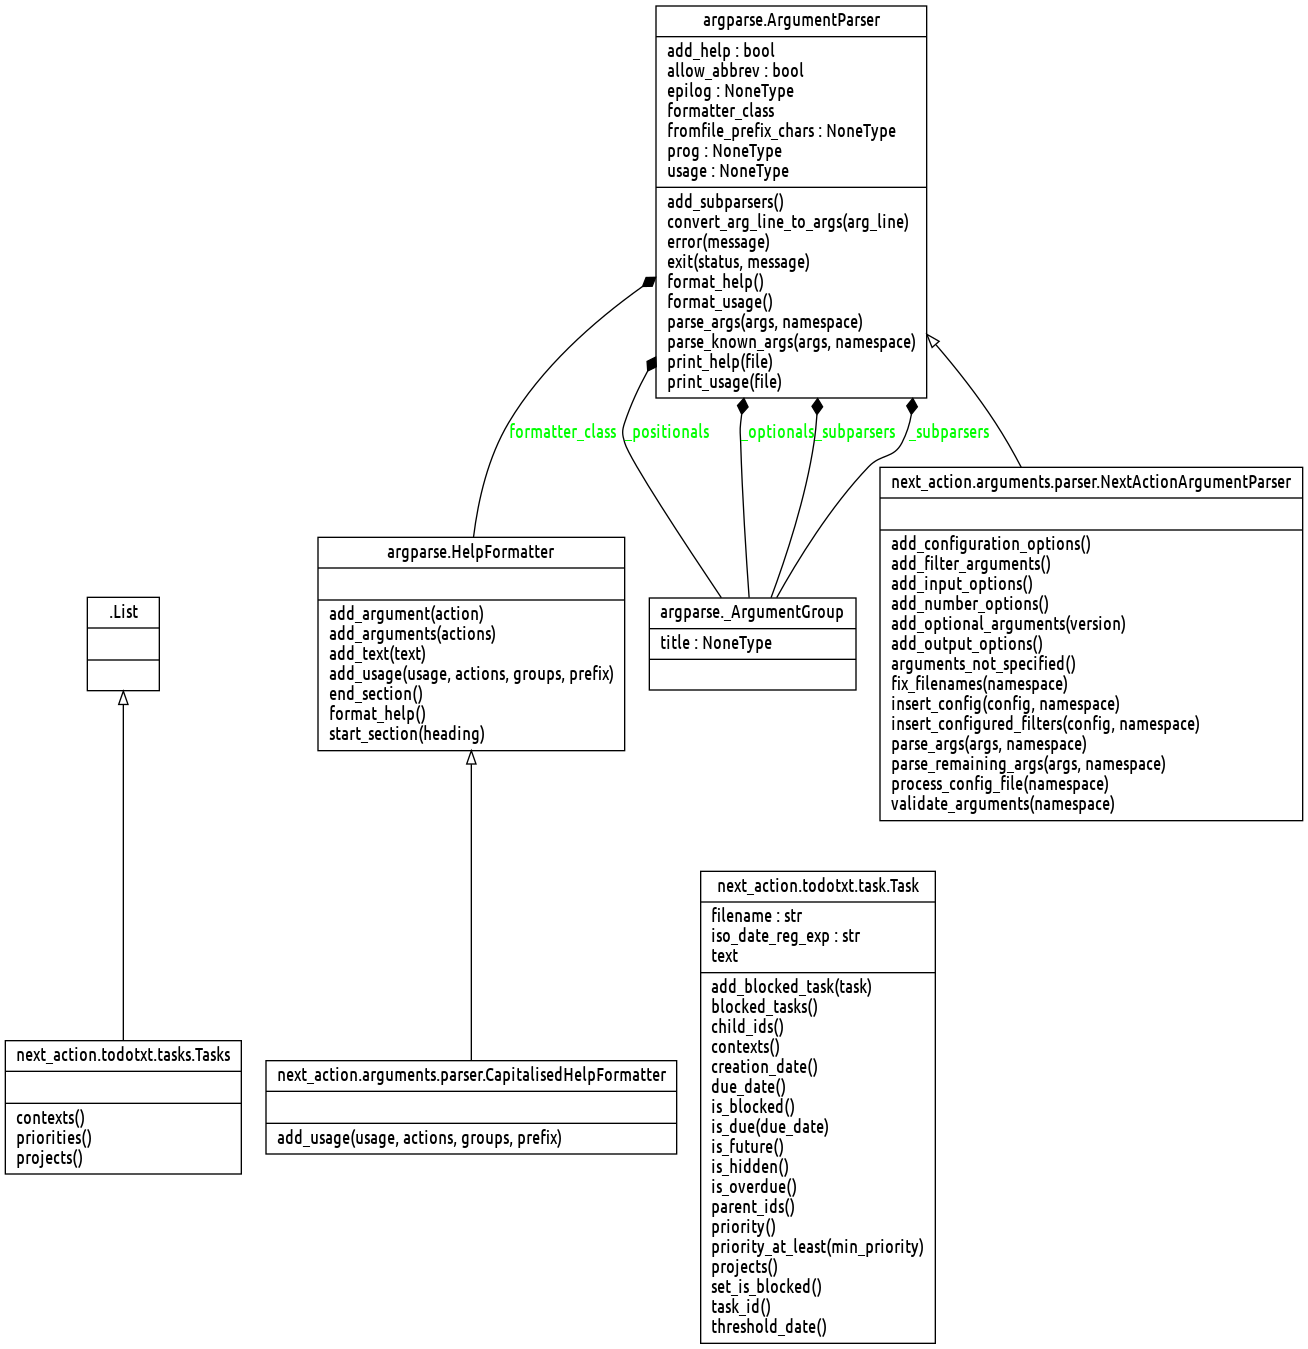
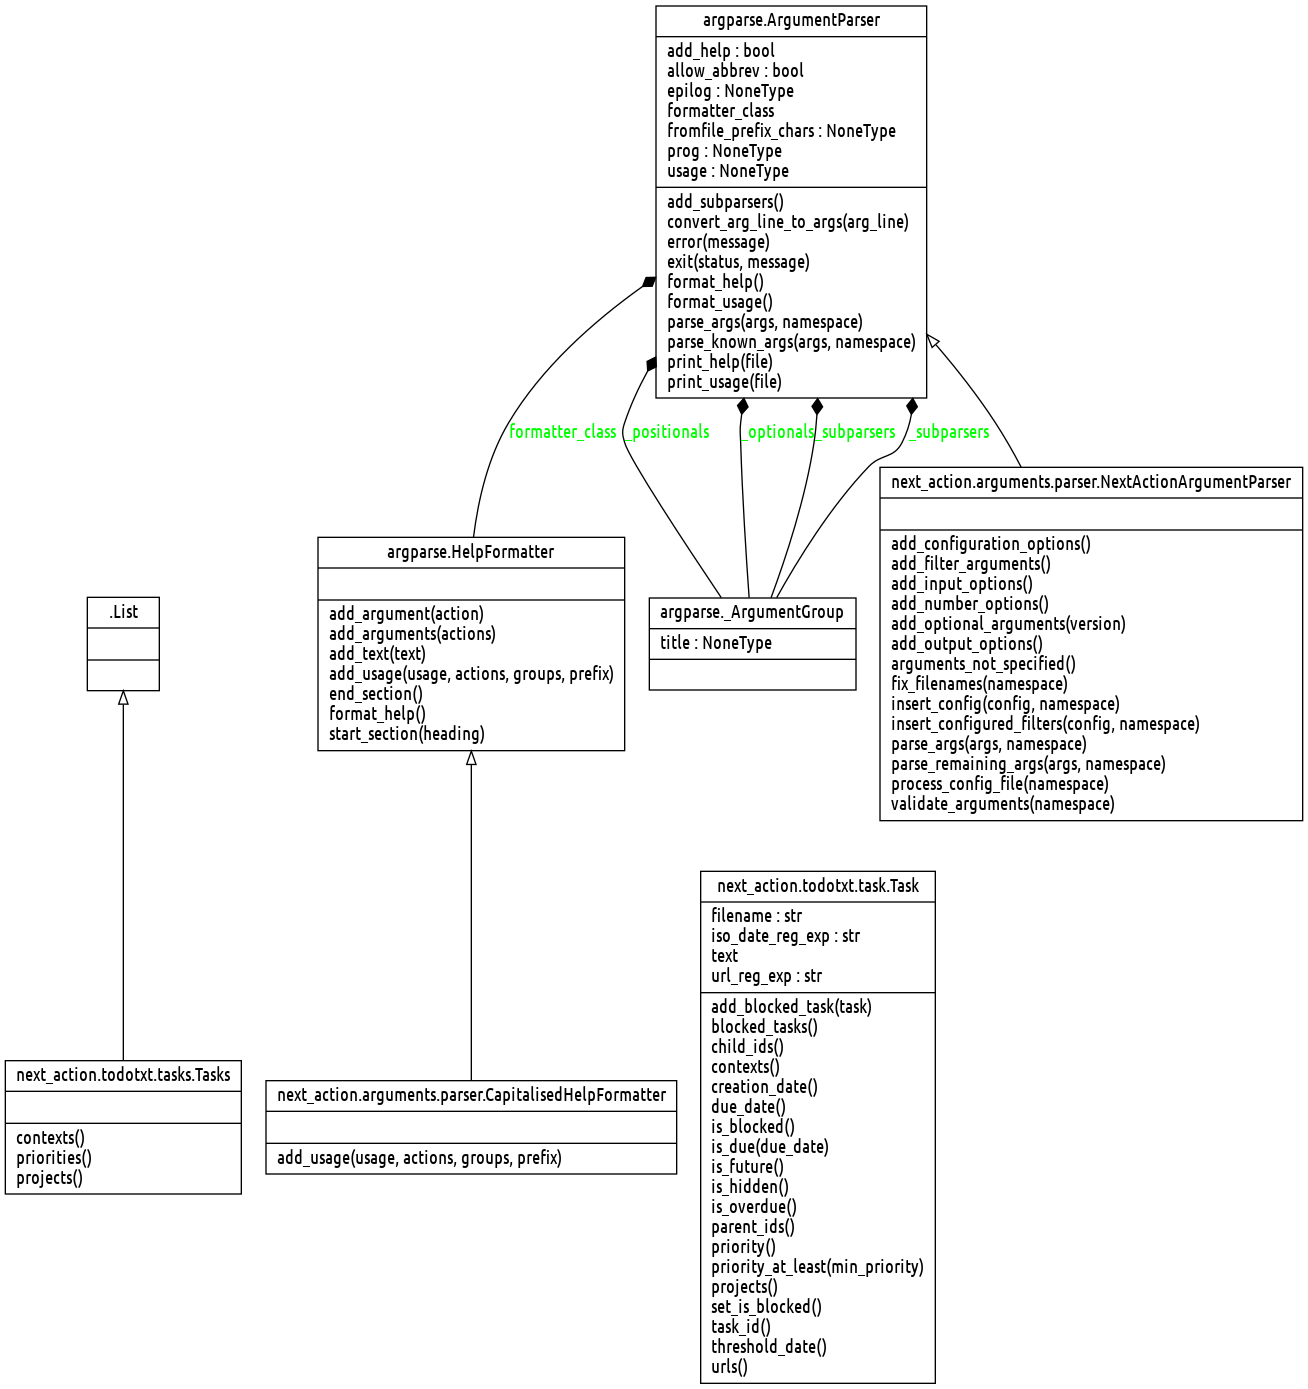
Issue 577 open urls (#587)
* Add -u, --open-urls command line options and open_urls configuration option to open urls in next actions.

diff --git a/next_action/arguments/parser.py b/next_action/arguments/parser.py
@@ -17,7 +17,7 @@ from .config import read_config_file, write_config_file, validate_config_file
 
 ARGUMENTS = ("@", "+", "-@", "-+", "-a", "--all", "-b", "--blocked", "-c", "--config-file", "-d", "--due",
              "-f", "--file", "-g", "--groupby", "-h", "--help", "-n", "--number", "-o", "--overdue",
-             "-p", "--priority", "-r", "--reference", "-s", "--style", "-V", "--version")
+             "-p", "--priority", "-r", "--reference", "-s", "--style", "-u", "--open-urls", "-V", "--version")
 REFERENCE_CHOICES = ("always", "never", "multiple")
 GROUPBY_CHOICES = ("context", "duedate", "priority", "project", "source")
 
@@ -30,7 +30,7 @@ class NextActionArgumentParser(argparse.ArgumentParser):
         super().__init__(
             usage=textwrap.fill("next-action [-h] [-V] [-c [<config.cfg>] | -w] [-f <todo.txt> ...] [-b] [-g "
                                 "[<group>]] [-r <ref>] [-s [<style>]] [-a | -n <number>] [-d [<due date>] | -o] "
-                                "[-p [<priority>]] [--] [<context|project> ...]",
+                                "[-p [<priority>]] [-u] [--] [<context|project> ...]",
                                 width=shutil.get_terminal_size().columns - len("usage: ")),
             description="Show the next action in your todo.txt. The next action is selected from the tasks in the "
                         "todo.txt file based on task properties such as priority, due date, and creation date. Limit "
@@ -88,6 +88,9 @@ class NextActionArgumentParser(argparse.ArgumentParser):
         output_group.add_argument(
             "-s", "--style", metavar="<style>", choices=styles, default=None, nargs="?",
             help=f"colorize the output; available styles: {', '.join(styles)} (default: %(default)s)")
+        output_group.add_argument(
+            "-u", "--open-urls", help="open the urls in the next actions, if any (default: %(default)s)",
+            action="store_true")
 
     def add_number_options(self) -> None:
         """Add the number options to the parser."""
@@ -203,6 +206,9 @@ class NextActionArgumentParser(argparse.ArgumentParser):
         if self.arguments_not_specified("-b", "--blocked"):
             blocked = config.get("blocked", self.get_default("blocked"))
             setattr(namespace, "blocked", blocked)
+        if self.arguments_not_specified("-u", "--open-urls"):
+            open_urls = config.get("open_urls", self.get_default("open_urls"))
+            setattr(namespace, "open_urls", open_urls)
         self.insert_configured_filters(config, namespace)
 
     @staticmethod

diff --git a/tests/unittests/test_cli.py b/tests/unittests/test_cli.py
@@ -3,6 +3,7 @@
 import os
 import sys
 import unittest
+import webbrowser
 from unittest.mock import patch, mock_open, call
 
 from next_action import next_action, __version__
@@ -65,7 +66,7 @@ class CLITest(unittest.TestCase):
         self.assertRaises(SystemExit, next_action)
         self.assertEqual(call("""\
 Usage: next-action [-h] [-V] [-c [<config.cfg>] | -w] [-f <todo.txt> ...] [-b] [-g [<group>]] [-r <ref>] [-s [<style>]]
-[-a | -n <number>] [-d [<due date>] | -o] [-p [<priority>]] [--] [<context|project> ...]
+[-a | -n <number>] [-d [<due date>] | -o] [-p [<priority>]] [-u] [--] [<context|project> ...]
 
 Show the next action in your todo.txt. The next action is selected from the tasks in the todo.txt file based on task
 properties such as priority, due date, and creation date. Limit the tasks from which the next action is selected by
@@ -100,6 +101,7 @@ Output options:
                         colorful, default, emacs, friendly, fruity, igor, lovelace, manni, monokai, murphy, native,
                         paraiso-dark, paraiso-light, pastie, perldoc, rainbow_dash, rrt, sas, solarized-dark,
                         solarized-light, stata, stata-dark, stata-light, tango, trac, vim, vs, xcode (default: None)
+  -u, --open-urls       open the urls in the next actions, if any (default: False)
 
 Show multiple next actions:
   -a, --all             show all next actions
@@ -247,3 +249,13 @@ context or project is mistaken for an argument to an option.
         next_action()
         self.assertEqual(
             [call("A C"), call("\n")], mock_stdout_write.call_args_list)
+
+    @patch.object(sys, "argv", ["next-action", "--open-urls"])
+    @patch("fileinput.open", mock_open(read_data="Search https://google.com\n"))
+    @patch.object(webbrowser, "open")
+    @patch.object(sys.stdout, "write")
+    def test_one_task_with_url(self, mock_stdout_write, mock_webbrowser_open):
+        """Test the response when the task file has one task with a URL."""
+        next_action()
+        self.assertEqual([call("Search https://google.com"), call("\n")], mock_stdout_write.call_args_list)
+        self.assertEqual([call("https://google.com")], mock_webbrowser_open.call_args_list)

diff --git a/tests/features/steps/show_next_action.py b/tests/features/steps/show_next_action.py
@@ -63,7 +63,6 @@ def named_todotxt(context, filename):
 @when("the user asks for the next action")
 def next_action(context):  # pylint: disable=unused-argument
     """Next-action shows the next action by default, so no arguments needed."""
-    pass
 
 
 @when("the user asks for the next action from {filename}")
@@ -104,7 +103,7 @@ def next_action_with_invalid_prio(context):
 
 
 @when("the user asks for all next actions ungrouped")
-def next_action_groupby(context):
+def next_action_ungrouped(context):
     """Add the groupby option without argument to override a configured group."""
     context.arguments.extend(["--all", "--groupby"])
 
@@ -205,6 +204,12 @@ def ask_for_list_of_arguments(context, argument_type):
     if argument_type.endswith(" arguments"):
         argument_type = argument_type[:-len(" arguments")]
     context.arguments.extend(["--list-arguments", f"{argument_type.replace(' ', '_').replace('-', '_')}"])
+
+
+@when("the user asks for the next action with the open urls option")
+def next_action_open_url(context):
+    """Add the open url option."""
+    context.arguments.extend(["--open-url"])
 
 
 @then("Next-action tells the user there's nothing to do")
@@ -361,6 +366,11 @@ def c_or_p_in_and_ex_error_message(context, context_or_project):
 
 
 @then("Next-action tells the user the todo.txt can't be read")
-def unreadable_file_error_messge(context):
+def unreadable_file_error_message(context):
     """Check the error message."""
     assert_in("next-action: error: can't open file: ", context.next_action())
+
+@then('Next-action opens the url "{url}" and shows the next action "{task}"')
+def open_url(context, url, task):
+    """Check the url."""
+    assert_equal(url + "\n" + task + "\n", context.next_action())

diff --git a/tests/unittests/arguments/test_config.py b/tests/unittests/arguments/test_config.py
@@ -1,4 +1,4 @@
-"""Unit tests for the configration file parsing."""
+"""Unit tests for the configuration file parsing."""
 
 import os
 import sys
@@ -557,4 +557,31 @@ class BlockedTest(ConfigTestCase):
         self.assertEqual(
             [call(USAGE_MESSAGE),
              call("next-action: error: ~/.next-action.cfg is invalid: blocked: unallowed value False\n")],
+            mock_stderr_write.call_args_list)
+
+
+class OpenUrlsTest(ConfigTestCase):
+    """Unit tests for the open-urls parameter."""
+
+    @patch.object(sys, "argv", ["next-action"])
+    @patch.object(config, "open", mock_open(read_data="open_urls: true"))
+    def test_open_urls(self):
+        """Test that the configured value changes the open-urls argument."""
+        self.assertEqual(True, parse_arguments()[1].open_urls)
+
+    @patch.object(sys, "argv", ["next-action", "--open-urls"])
+    @patch.object(config, "open", mock_open(read_data="open_urls: true"))
+    def test_override(self):
+        """Test that a command line argument overrides the configured value."""
+        self.assertEqual(True, parse_arguments()[1].open_urls)
+
+    @patch.object(sys, "argv", ["next-action"])
+    @patch.object(config, "open", mock_open(read_data="open_urls: false"))
+    @patch.object(sys.stderr, "write")
+    def test_invalid_open_urls_value(self, mock_stderr_write):
+        """Test that an invalid value raises an error."""
+        self.assertRaises(SystemExit, parse_arguments)
+        self.assertEqual(
+            [call(USAGE_MESSAGE),
+             call("next-action: error: ~/.next-action.cfg is invalid: open_urls: unallowed value False\n")],
             mock_stderr_write.call_args_list)

diff --git a/tests/unittests/todotxt/test_task.py b/tests/unittests/todotxt/test_task.py
@@ -427,3 +427,27 @@ class TaskHiddenessTest(unittest.TestCase):
         """Test that a task with h:1 is hidden."""
         task = todotxt.Task("A task h:1")
         self.assertTrue(task.is_hidden())
+
+
+class TaskURLsTest(unittest.TestCase):
+    """Unit tests for URLs in tasks."""
+
+    def test_no_urls(self):
+        """Test that a task without URLs returns no URLs."""
+        task = todotxt.Task("A task")
+        self.assertEqual([], task.urls())
+
+    def test_one_url(self):
+        """Test that a task with a URLs returns the URL."""
+        task = todotxt.Task("Search for things https://www.google.com")
+        self.assertEqual(["https://www.google.com"], task.urls())
+
+    def test_multiple_urls(self):
+        """Test that a task with multiple URLs returns the URLs."""
+        task = todotxt.Task("Search for things using https://www.google.com and https://duckduckgo.com")
+        self.assertEqual(["https://www.google.com", "https://duckduckgo.com"], task.urls())
+
+    def test_weird_urls(self):
+        """Test that a task with weird URLs returns the URLs."""
+        task = todotxt.Task("Check out https://www.google.com/check#/foo")
+        self.assertEqual(["https://www.google.com/check#/foo"], task.urls())

diff --git a/docs/update_readme.py b/docs/update_readme.py
@@ -37,7 +37,7 @@ def create_toc(lines, toc_header, min_level=2, max_level=3):
     return "\n".join(result) + "\n"
 
 
-class StateMachine():
+class StateMachine:
     """State machine for processing the lines in the README.md.
 
     Console commands are executed and the output is inserted. The table of contents is inserted and the old
@@ -75,7 +75,9 @@ class StateMachine():
                 regex = re.compile(self.expected_output[len("re: "):].strip(), re.MULTILINE)
                 assert_regex(self.output.strip(), regex)
             else:
-                assert_equal(self.expected_output.strip(), self.output.strip())
+                assert_equal(
+                    self.expected_output.strip(), self.output.strip(),
+                    f"Expected: {self.expected_output.strip()}, got: {self.output.strip()}")
             self.write_lines(line)
             return self.default
         self.expected_output += "\n" + line

diff --git a/next_action/todotxt/task.py b/next_action/todotxt/task.py
@@ -11,6 +11,8 @@ class Task:
     """A task from a line in a todo.txt file."""
 
     iso_date_reg_exp = r"(\d{4})-(\d{1,2})-(\d{1,2})"
+    # Source for the URL regular expression: http://www.noah.org/wiki/RegEx_Python
+    url_reg_exp = r"http[s]?://(?:[a-zA-Z]|[0-9]|[$-_@.&+#]|[!*\(\),]|(?:%[0-9a-fA-F][0-9a-fA-F]))+"
 
     def __init__(self, todo_txt: str, filename: str = "") -> None:
         """Initialise the task with its Todo.txt text string and originating filename."""
@@ -122,6 +124,10 @@ class Task:
         """Return the id of the task."""
         match = re.search(r"\bid:(\S+)\b", self.text)
         return match.group(1) if match else ""
+
+    def urls(self) -> List[str]:
+        """Return the URLs of the task."""
+        return re.findall(self.url_reg_exp, self.text)
 
     def __prefixed_items(self, prefix: str) -> Set[str]:
         """Return the prefixed items in the task."""

diff --git a/next_action/__init__.py b/next_action/__init__.py
@@ -2,7 +2,7 @@
 
 from .arguments import parse_arguments
 from .pick_action import next_actions
-from .output import render_next_action, render_arguments
+from .output import render_next_action, render_arguments, open_urls
 from .todotxt import read_todotxt_files
 
 
@@ -16,8 +16,9 @@ def next_action() -> None:
     Basic recipe:
     1) parse command-line arguments,
     2) read todo.txt file(s),
-    3) determine the next action(s) and,
-    4) display them.
+    3) determine the next action(s),
+    4) display them, and
+    5) open their urls if requested by the user.
     """
     parser, namespace = parse_arguments(__version__)
     try:
@@ -29,3 +30,5 @@ def next_action() -> None:
     else:
         actions = next_actions(tasks, namespace)
         print(render_next_action(actions, tasks, namespace))
+        if namespace.open_urls:
+            open_urls(actions)

diff --git a/tests/unittests/output/test_render.py b/tests/unittests/output/test_render.py
@@ -134,9 +134,10 @@ class RenderArgumentsTest(unittest.TestCase):
 
     def test_arguments(self):
         """Test that the base arguments are rendered correctly."""
-        self.assertEqual("+ -+ --all --blocked --config-file --due --file --groupby --help --number --overdue "
-                         "--priority --reference --style --version -@ -V -a -b -c -d -f -g -h -n -o -p -r -s @",
-                         render_arguments("all", todotxt.Tasks()))
+        self.assertEqual(
+            "+ -+ --all --blocked --config-file --due --file --groupby --help --number --open-urls "
+            "--overdue --priority --reference --style --version -@ -V -a -b -c -d -f -g -h -n -o -p -r -s -u @",
+            render_arguments("all", todotxt.Tasks()))
 
     @given(strategies.sampled_from(["__groupby", "_g"]))
     def test_groupby(self, argument):

diff --git a/tests/features/environment.py b/tests/features/environment.py
@@ -1,5 +1,6 @@
 """Code to run before and after certain events during testing."""
 
+import os
 import shutil
 import subprocess  # nosec
 
@@ -8,6 +9,7 @@ def before_all(context):
     """Create a shortcut for invoking Next-action."""
     def run_next_action():
         """Run Next-action and return both stderr and stdout."""
+        os.environ["BROWSER"] = 'echo %s'
         result = subprocess.run(context.arguments, stdout=subprocess.PIPE, stderr=subprocess.PIPE, encoding="utf-8")
         return result.stdout + result.stderr
 

diff --git a/tests/unittests/arguments/test_parser.py b/tests/unittests/arguments/test_parser.py
@@ -12,8 +12,8 @@ from next_action.arguments import config, parse_arguments
 
 USAGE_MESSAGE = textwrap.fill(
     "Usage: next-action [-h] [-V] [-c [<config.cfg>] | -w] [-f <todo.txt> ...] [-b] [-g [<group>]] [-r <ref>] "
-    "[-s [<style>]] [-a | -n <number>] [-d [<due date>] | -o] [-p [<priority>]] [--] [<context|project> ...]", 120) + \
-    "\n"
+    "[-s [<style>]] [-a | -n <number>] [-d [<due date>] | -o] [-p [<priority>]] [-u] [--] "
+    "[<context|project> ...]", 120) + "\n"
 
 
 class ParserTestCase(unittest.TestCase):

diff --git a/tests/unittests/output/test_url.py b/tests/unittests/output/test_url.py
@@ -1,0 +1,16 @@
+"""Unit tests for the url module in the output package."""
+
+import unittest
+from unittest.mock import patch
+
+from next_action import todotxt
+from next_action.output import open_urls
+
+
+class TestOpenUrls(unittest.TestCase):
+    """Unit tests for the open urls function."""
+
+    def test_url(self):
+        with patch("webbrowser.open") as mock_open:
+            open_urls([todotxt.Task("https://google.com")])
+        mock_open.assert_called_once_with("https://google.com")
